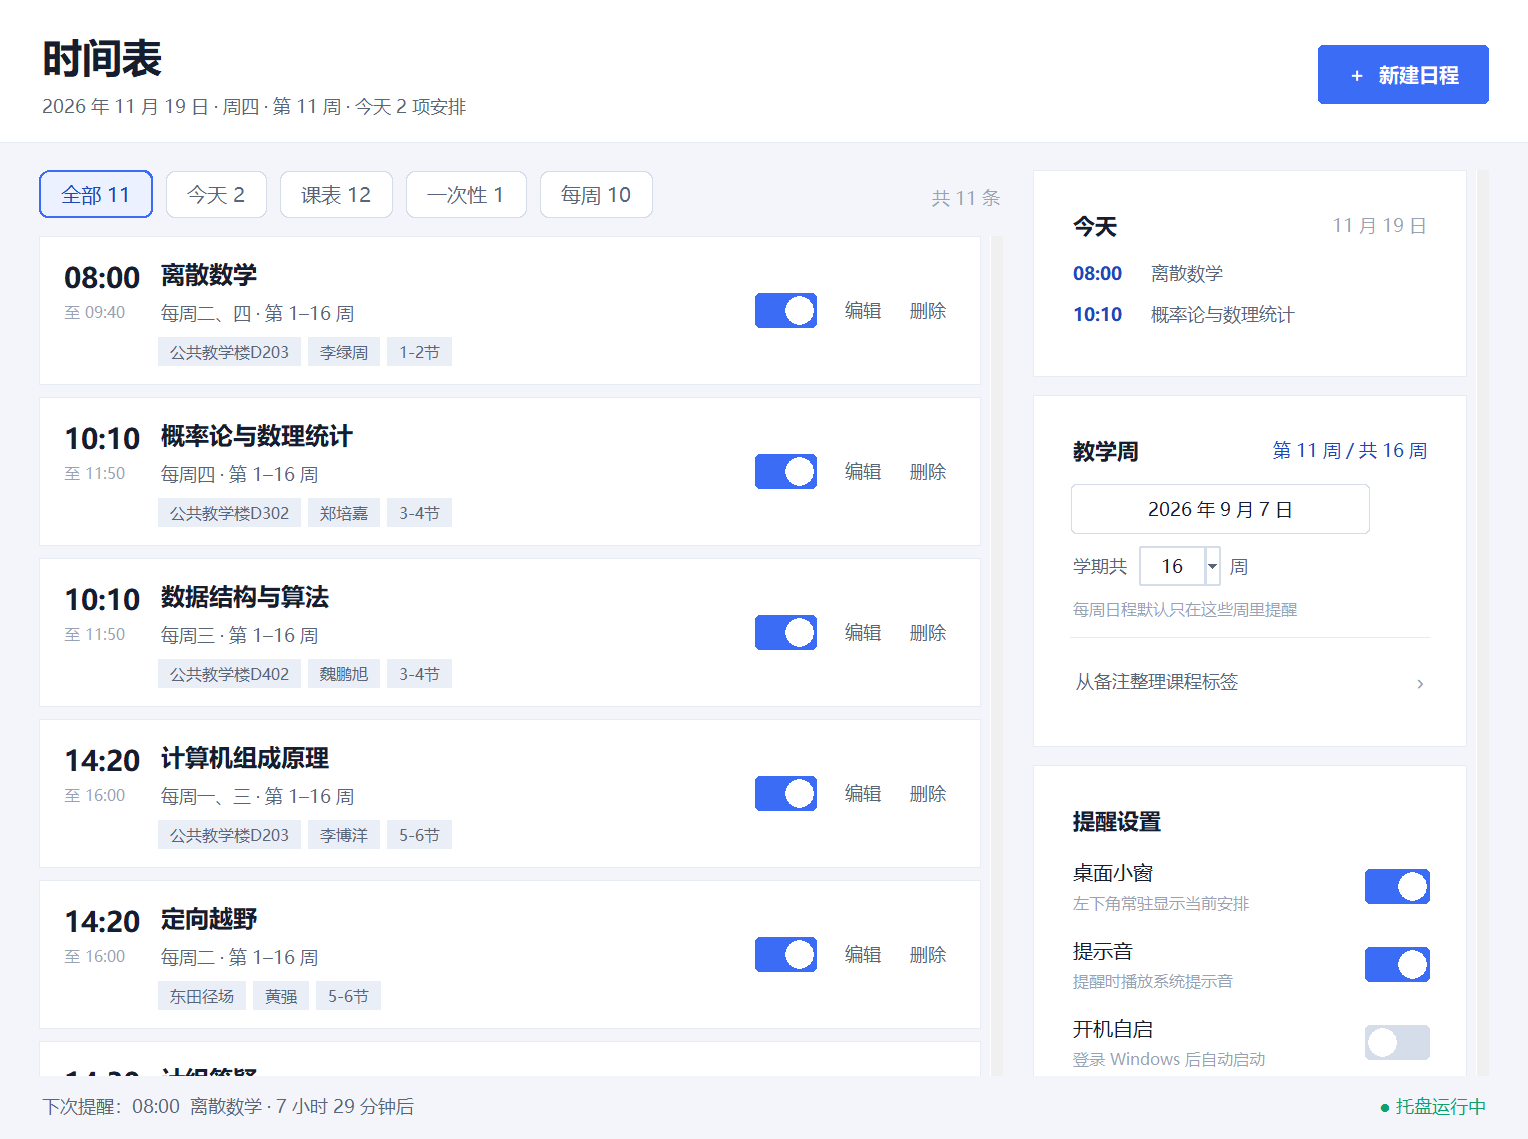
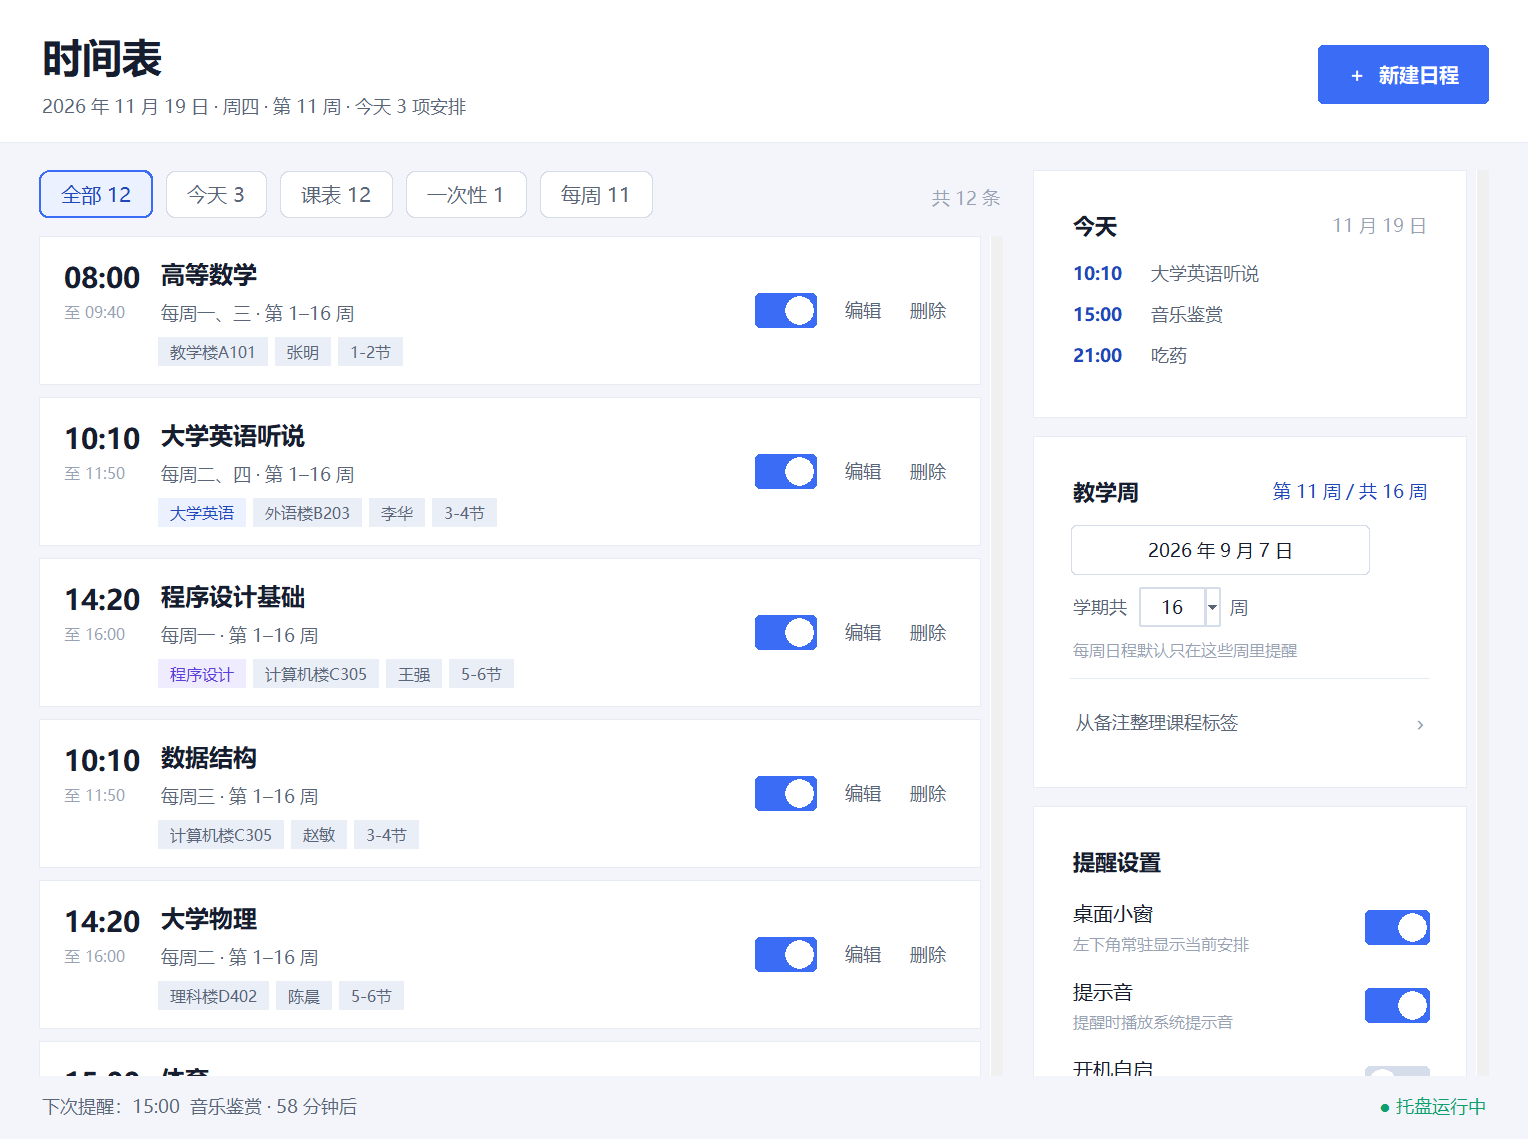
文档截图换成虚构示例课程，不再暴露真实课表

diff --git a/tools/make_docs_screenshots.py b/tools/make_docs_screenshots.py
@@ -1,0 +1,141 @@
+"""生成 README 里的界面截图（使用虚构的示例课程，不涉及任何真实课表）。
+
+用法：python tools/make_docs_screenshots.py
+"""
+
+from __future__ import annotations
+
+import sys
+from datetime import date, datetime, timedelta
+from pathlib import Path
+
+sys.path.insert(0, str(Path(__file__).resolve().parents[1]))
+
+import tkinter as tk  # noqa: E402
+
+from app import model, theme  # noqa: E402
+from app.model import Entry, monday_of  # noqa: E402
+from app.store import Settings  # noqa: E402
+from app.ui_main import MainWindow  # noqa: E402
+from tools.capture_window import capture_hwnd  # noqa: E402
+from tools.ui_preview import FakeApp  # noqa: E402
+
+DOCS = Path(__file__).resolve().parents[1] / "docs"
+
+
+def demo_entries(today: date) -> list[Entry]:
+    """一组虚构的课程 + 两条普通日程，用来演示界面。"""
+    term_week = 11
+    term_start = monday_of(today - timedelta(weeks=term_week - 1))
+
+    def course(title, subject, teacher, room, period, weekdays, start, end, color_hint=""):
+        return Entry(
+            title=title,
+            kind="weekly",
+            weekdays=weekdays,
+            start=start,
+            end=end,
+            weeks_from=1,
+            weeks_to=16,
+            term_limited=True,
+            subject=subject,
+            teacher=teacher,
+            room=room,
+            period=period,
+            is_course=True,
+        )
+
+    return [
+        course("高等数学", "高等数学", "张明", "教学楼A101", "1-2节", [1, 3], "08:00", "09:40"),
+        course("大学英语听说", "大学英语", "李华", "外语楼B203", "3-4节", [2, 4], "10:10", "11:50"),
+        course("程序设计基础", "程序设计", "王强", "计算机楼C305", "5-6节", [1], "14:20", "16:00"),
+        course("数据结构", "数据结构", "赵敏", "计算机楼C305", "3-4节", [3], "10:10", "11:50"),
+        course("大学物理", "大学物理", "陈晨", "理科楼D402", "5-6节", [2], "14:20", "16:00"),
+        course("体育", "体育", "刘洋", "体育馆", "7-8节", [5], "15:00", "16:40"),
+        course("大学物理实验", "物理实验", "周涛", "实验中心E101", "3-4节", [5], "10:10", "11:50"),
+        course("音乐鉴赏", "音乐鉴赏", "吴芳", "艺术楼201", "7-8节", [4], "15:00", "16:40"),
+        course("形势与政策", "形势与政策", "郑伟", "教学楼A203", "1-2节", [5], "08:00", "09:40"),
+        course("学业辅导", "学业辅导", "辅导员", "学生中心", "7-8节", [7], "15:00", "16:40"),
+        Entry(
+            title="交实验报告",
+            note="打印后交到实验中心前台",
+            kind="once",
+            date_str=(today + timedelta(days=2)).isoformat(),
+            start="17:00",
+            end="17:30",
+            is_course=False,
+        ),
+        Entry(
+            title="吃药",
+            note="饭后半小时",
+            kind="weekly",
+            weekdays=[1, 2, 3, 4, 5, 6, 7],
+            start="21:00",
+            point=True,
+            is_course=False,
+        ),
+    ], term_start
+
+
+def main() -> int:
+    theme.enable_dpi_awareness()
+    root = tk.Tk()
+    root.withdraw()
+    theme.init(root)
+    theme.setup_ttk(root)
+
+    today = date.today()
+    entries, term_start = demo_entries(today)
+    model.set_term(term_start, 16)
+
+    app = FakeApp(root)
+    app.settings = Settings(
+        first_run=False,
+        autostart_choice="on",
+        term_start=term_start.isoformat(),
+        term_weeks=16,
+    )
+    app.store.entries = entries
+
+    win = MainWindow(app, show_now=True)
+    win.refresh()
+    for _ in range(4):
+        root.update_idletasks()
+        root.update()
+
+    DOCS.mkdir(parents=True, exist_ok=True)
+    print("main:", capture_hwnd(win.winfo_id(), DOCS / "screenshot-main.png"))
+
+    win.set_filter("grid")
+    for _ in range(6):
+        root.update_idletasks()
+        root.update()
+    print("grid:", capture_hwnd(win.winfo_id(), DOCS / "screenshot-grid.png"))
+    if getattr(win, "_grid_widget", None) is not None:
+        widget = win._grid_widget
+        root.update_idletasks()
+        head_png = DOCS / "_grid-head.png"
+        body_png = DOCS / "_grid-body.png"
+        capture_hwnd(widget.head_canvas.winfo_id(), head_png)
+        capture_hwnd(widget.canvas.winfo_id(), body_png)
+        try:
+            from PIL import Image
+
+            with Image.open(head_png) as head, Image.open(body_png) as body:
+                canvas = Image.new(
+                    "RGB",
+                    (max(head.width, body.width), head.height + body.height),
+                    (243, 245, 250),
+                )
+                canvas.paste(head, (0, 0))
+                canvas.paste(body, (0, head.height))
+                canvas.save(DOCS / "screenshot-grid-detail.png")
+        finally:
+            head_png.unlink(missing_ok=True)
+            body_png.unlink(missing_ok=True)
+    root.destroy()
+    return 0
+
+
+if __name__ == "__main__":
+    raise SystemExit(main())

diff --git a/tools/make_pet_screenshot.py b/tools/make_pet_screenshot.py
@@ -1,0 +1,125 @@
+"""生成桌宠截图（虚构的示例日程，不涉及真实课表）。
+
+用法：python tools/make_pet_screenshot.py
+"""
+
+from __future__ import annotations
+
+import ctypes
+import logging
+import queue
+import sys
+import time
+import tkinter as tk
+from datetime import date, datetime, timedelta
+from pathlib import Path
+
+sys.path.insert(0, str(Path(__file__).resolve().parents[1]))
+
+from app import theme  # noqa: E402
+from app.model import Entry  # noqa: E402
+from app.ui_desktop_pet import DesktopPet  # noqa: E402
+from tools.probe_pet_app import FakeApp  # noqa: E402
+from tools.probe_pet_window import grab  # noqa: E402
+
+user32 = ctypes.WinDLL("user32", use_last_error=True)
+WM_MOUSEMOVE = 0x0200
+
+DOCS = Path(__file__).resolve().parents[1] / "docs"
+
+
+def demo_entries() -> list[Entry]:
+    now = datetime.now().replace(second=0, microsecond=0)
+    return [
+        Entry(
+            title="音乐鉴赏",
+            kind="once",
+            date_str=date.today().isoformat(),
+            start=(now - timedelta(minutes=15)).strftime("%H:%M"),
+            end=(now + timedelta(minutes=25)).strftime("%H:%M"),
+        ),
+        Entry(
+            title="交实验报告",
+            kind="once",
+            date_str=date.today().isoformat(),
+            start=(now + timedelta(minutes=28)).strftime("%H:%M"),
+            end=(now + timedelta(minutes=58)).strftime("%H:%M"),
+        ),
+    ]
+
+
+def dispatch(app: FakeApp, pet: DesktopPet) -> None:
+    try:
+        while True:
+            kind, payload = app.events.get_nowait()
+            if kind == "pet_click":
+                pet.on_click()
+            elif kind == "pet_menu":
+                pet.show_menu(*payload)
+            elif kind == "pet_enter":
+                pet.on_hover_enter()
+            elif kind == "pet_dragstart":
+                pet.on_drag_start()
+            elif kind == "pet_wheel":
+                pet.on_wheel(int(payload))
+    except queue.Empty:
+        pass
+
+
+def pump(app: FakeApp, pet: DesktopPet, root: tk.Tk, seconds: float) -> None:
+    end = time.time() + seconds
+    while time.time() < end:
+        root.update()
+        dispatch(app, pet)
+        time.sleep(0.02)
+
+
+def main() -> int:
+    theme.enable_dpi_awareness()
+    root = tk.Tk()
+    root.withdraw()
+    theme.init(root)
+    app = FakeApp(root)
+    app.log = logging.getLogger("screenshot")
+    app.entries = demo_entries()
+    app.settings.pet_scale = 1.25
+
+    pet = DesktopPet(app)
+    hwnd = ctypes.c_void_p(pet._window._hwnd)
+    pump(app, pet, root, 0.4)
+
+    x, y = pet.position
+    w, h = pet._window.size
+    left = max(0, x - 70)
+    top = max(0, y - 330)
+    width = w + 320
+    height = h + 350
+
+    # 在桌宠后面铺一块干净的背景板，避免截到桌面图标或壁纸
+    backdrop = tk.Toplevel(root)
+    backdrop.overrideredirect(True)
+    backdrop.attributes("-topmost", True)
+    backdrop.configure(bg="#F2F5FA")
+    backdrop.geometry(f"{width}x{height}+{left}+{top}")
+    backdrop.update_idletasks()
+
+    # 背景板后建，会盖在桌宠上；把桌宠重新提到最前
+    pet._window.set_topmost(True)
+    pump(app, pet, root, 0.3)
+
+    user32.PostMessageW(hwnd, WM_MOUSEMOVE, 0, 0)
+    pump(app, pet, root, 0.9)
+    if pet._panel is not None and pet._panel.visible:
+        pet._panel.lift()
+
+    image = grab(left, top, width, height)
+    DOCS.mkdir(parents=True, exist_ok=True)
+    image.save(DOCS / "screenshot-pet-hover.png")
+    print("saved", DOCS / "screenshot-pet-hover.png", image.size)
+    backdrop.destroy()
+    root.destroy()
+    return 0
+
+
+if __name__ == "__main__":
+    raise SystemExit(main())

diff --git a/README.md b/README.md
@@ -12,6 +12,8 @@
 
 ![时间点提醒（点「已完成」打勾）](docs/screenshot-point.png)
 
+> 截图里的课程、老师、教室和日程都是虚构的示例数据，方便演示，不涉及任何真实课表。
+
 - 双击 `timetable.pyw` 启动，没有黑框，直接缩在右下角托盘里
 - **左下角站着一只会眨眼的鲸鱼娘**（桌宠）：逐像素透明地蹲在桌面上，鼠标停上去会浮出「现在／接下来」信息卡，滚轮能调大小，单击打开主窗口，按住可以拖到任意位置
 - 支持**一次性日程**（指定日期）和**每周重复**（可多选星期，例如每周一、三、五）
